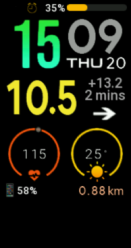
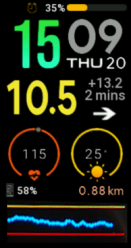
fix graph display

Changed region(s): [[0.0305, 0.8185, 0.9771, 0.9879]]

diff --git a/utils/watchdrip/watchdrip.js b/utils/watchdrip/watchdrip.js
@@ -64,7 +64,6 @@ export class Watchdrip {
         this.intervalTimer = null;
         this.firstRun = true;
         this.resumeCall = false;
-        this.askedGraphData = false;
         /*
         typeof Graph
         */
@@ -336,7 +335,7 @@ export class Watchdrip {
                 debug.log('Graph is null or is AOD');
                 return;
             }
-            if (!this.graph.visibility) {
+            if (!this.graph.visibility || this.watchdripConfig.wfHrGraph === 0) {
                 this.graph.clear();
                 debug.log('Graph is not visible');
                 return;
@@ -416,7 +415,8 @@ export class Watchdrip {
             messageBuilder
                 .request({
                     method: Commands.getInfo,
-                    params: params
+                    params: params,
+                    hours: this.watchdripConfig.wfHrGraph
                 }, {
                     timeout: 5000
                 })
@@ -511,16 +511,14 @@ export class Watchdrip {
         } else {
             let info_no_graph_data = str2json(info);
             if (info_no_graph_data['graph']){
-                this.askedGraphData = true;
                 fs2.writeFileSync(WF_INFO_GRAPH, json2str(info_no_graph_data['graph']));
                 delete info_no_graph_data['graph'];
-            } else if (this.askedGraphData){
+            } else {
                 try {
                     fs2.unlinkSync(WF_INFO_GRAPH);
+                    this.graph.clear();
                 } catch (e){
-                    debug.log('error removing graph data file')
                 }
-                this.askedGraphData = false;
             }
             hmFS.SysProSetChars(WF_INFO, json2str(info_no_graph_data));
         }
